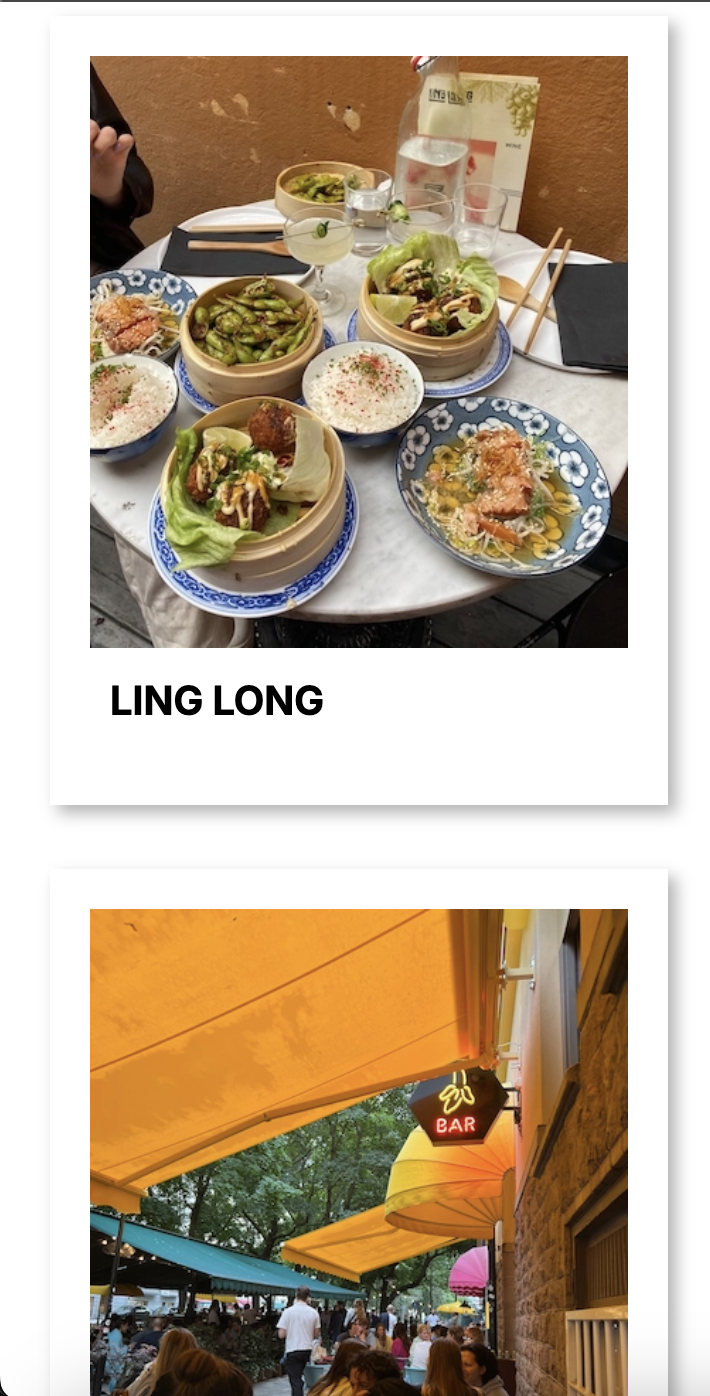
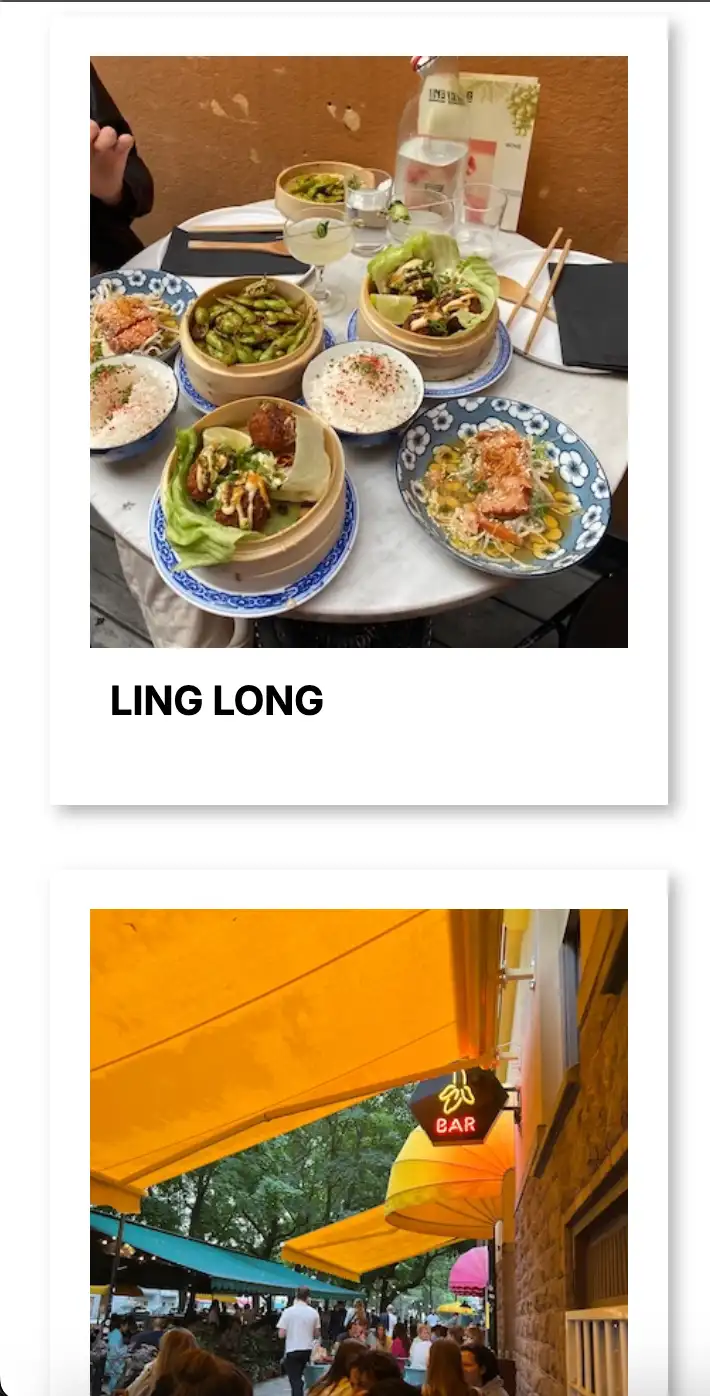
more pictures optimized

diff --git a/portfolio.html b/portfolio.html
@@ -180,10 +180,10 @@
             <li><img src="img/styletile4.webp" alt="styletile" /></li>
             <li><img src="img/layoutdiagram.webp" alt="layoutdiagram" /></li>
             <li><img src="img/Thepearl.drawio.webp" alt="drawio" /></li>
-            <li><img src="img/spel1.png" alt="spel" /></li>
-            <li><img src="img/spel2.png" alt="spel" /></li>
-            <li><img src="img/spel3.png" alt="spel" /></li>
-            <li><img src="img/spel4.png" alt="spel" /></li>
+            <li><img src="img/spel1.webp" alt="spel" /></li>
+            <li><img src="img/spel2.webp" alt="spel" /></li>
+            <li><img src="img/spel3.webp" alt="spel" /></li>
+            <li><img src="img/spel4.webp" alt="spel" /></li>
           </ul>
           <div id="close4"><img src="img/cross.svg" alt="stäng" /></div>
         </div>
